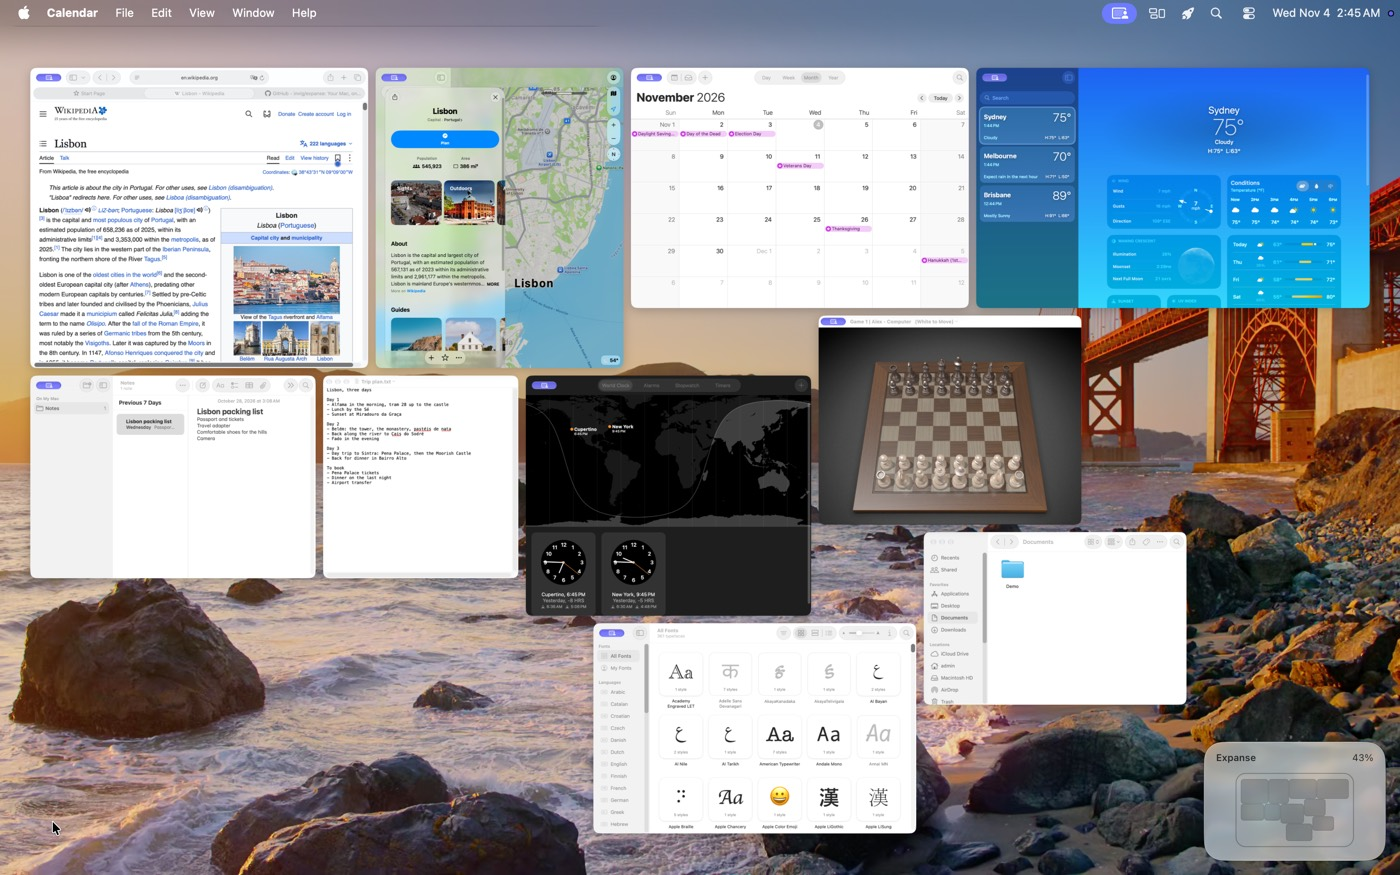
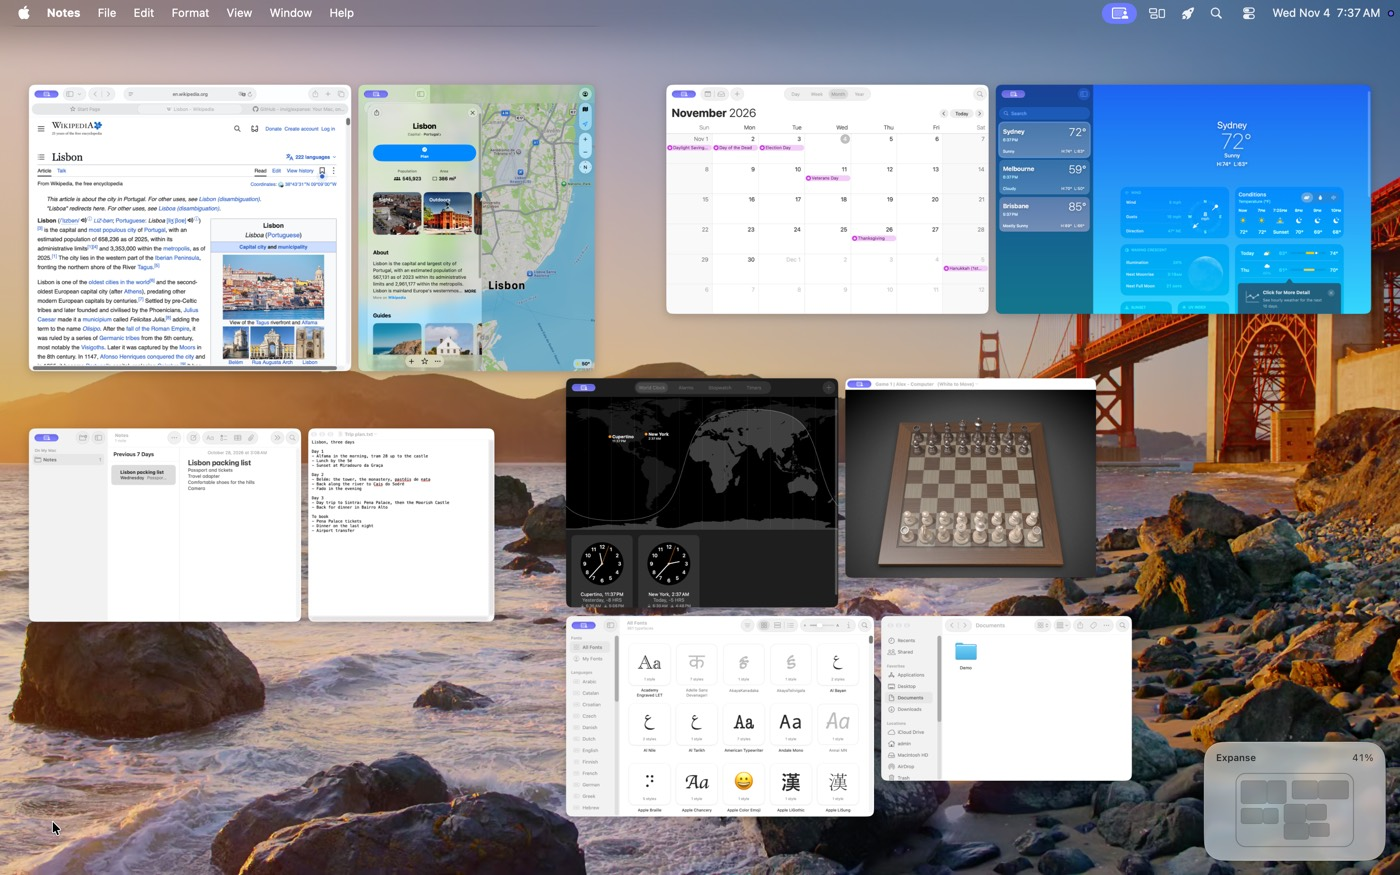
Tidy Up leaves zones alone: groups are windows less than 80pt apart
Windows within 240pt counted as one group, chaining through neighbours, so
Tidy Up pulled zones you'd kept apart on purpose back together. Now it's 80pt:
each zone is tidied where it is, and groups keep 80pt clear. EDIT-35.

The drag snap that centres a window on a row or column was using the same
number, so it has its own now and keeps its 240pt.

The README's Tidy Up pictures are retaken, since the old "after" showed the
scene jammed together.

diff --git a/Tests/ExpanseTests/EDITTests.swift b/Tests/ExpanseTests/EDITTests.swift
@@ -443,6 +443,9 @@ import Carbon.HIToolbox
         #expect(below.midX == 410)
         #expect(belowLines.first.map { $0.0 == CGPoint(x: 410, y: 500) && $0.1 == CGPoint(x: 410, y: 1200) } == true,
                 "a guide spanning the row and the window")
+        // 200pt below it still counts: dragging has its own reach, not Tidy Up's.
+        let (farBelow, _) = c2.snap(Self.r(258, 1000, 300, 300), excluding: [9])
+        #expect(farBelow.midX == 410)
     }
 
     @Test("EDIT-16 The same for a column to the left or right") func edit16b() {
@@ -470,8 +473,7 @@ import Carbon.HIToolbox
         #expect(b == groupB, "group B doesn't move")
     }
 
-    @Test("EDIT-17 Groups more than 240pt apart aren't pulled together") func edit17b() {
-        // Two groups 300pt apart: closer than they'd be after a whole-canvas tidy, further than 240.
+    @Test("EDIT-17 Groups apart aren't pulled together") func edit17b() {
         let frames0 = [Self.r(0, 0, 400, 300), Self.r(430, 0, 400, 300),
                        Self.r(1130, 40, 400, 300), Self.r(1580, 40, 400, 300)]
         var frames = frames0
@@ -479,6 +481,42 @@ import Carbon.HIToolbox
         #expect(frames[1].minX == 420)
         #expect(frames[2] == frames0[2], "B's first window stays put")
         #expect(frames[3].minX == 1550 && frames[3].minY == 40, "B is tidied where it is")
+    }
+
+    // MARK: EDIT-35 Windows 80pt or more apart stay separate zones through Tidy Up
+
+    @Test("EDIT-35 Two zones 100pt apart are each tidied where they are") func edit35() {
+        let frames0 = [Self.r(0, 0, 400, 300), Self.r(450, 30, 400, 300),
+                       Self.r(950, 0, 400, 300), Self.r(1400, 30, 400, 300)]
+        var frames = frames0
+        CanvasController.tidyUp(&frames)
+        #expect(frames[1] == Self.r(420, 0, 400, 300), "the first zone is tidied")
+        #expect(frames[2] == frames0[2], "the second zone stays where it is")
+        #expect(frames[3] == Self.r(1370, 0, 400, 300), "and is tidied there")
+    }
+
+    @Test("EDIT-35 The same for zones one above the other") func edit35b() {
+        let frames0 = [Self.r(0, 0, 400, 300), Self.r(0, 400, 400, 300)]
+        var frames = frames0
+        CanvasController.tidyUp(&frames)
+        #expect(frames == frames0)
+    }
+
+    @Test("EDIT-35 The range is 80pt: 79 apart is one group, 80 apart is two") func edit35c() {
+        #expect(CanvasController.clusterReach == 80)
+        var near = [Self.r(0, 0, 400, 300), Self.r(479, 0, 400, 300)]
+        CanvasController.tidyUp(&near)
+        #expect(near[1].minX == 420, "pulled in")
+        var apart = [Self.r(0, 0, 400, 300), Self.r(480, 0, 400, 300)]
+        CanvasController.tidyUp(&apart)
+        #expect(apart[1].minX == 480, "left alone")
+    }
+
+    @Test("EDIT-35 Being close on one axis alone doesn't make a group") func edit35d() {
+        let frames0 = [Self.r(0, 0, 400, 300), Self.r(430, 500, 400, 300)]
+        var frames = frames0
+        CanvasController.tidyUp(&frames)
+        #expect(frames == frames0)
     }
 
     // MARK: EDIT-18 The close button only closes when it's showing
@@ -626,7 +664,7 @@ import Carbon.HIToolbox
     @Test("EDIT-24 Tidy Up lines up near edges and closes gaps to 20pt") func edit24() {
         let a = Self.r(0, 0, 400, 300)
         let b = Self.r(450, 40, 400, 300)    // right of A: 50pt gap, top 40pt lower
-        let c = Self.r(30, 380, 400, 300)    // below A: left edge 30pt in, 80pt gap
+        let c = Self.r(30, 360, 400, 300)    // below A: left edge 30pt in, 60pt gap
         let p1 = Self.r(3000, 0, 400, 300), p2 = Self.r(3450, 100, 400, 300)   // tops 100pt apart
         var frames = [a, b, c, p1, p2]
         CanvasController.tidyUp(&frames)
@@ -655,9 +693,9 @@ import Carbon.HIToolbox
 
     // MARK: EDIT-25 A group moves as a whole only when another grows into its space
 
-    @Test("EDIT-25 A group another grows into moves as a whole, 240pt clear") func edit25() {
+    @Test("EDIT-25 A group another grows into moves as a whole, 80pt clear") func edit25() {
         let groupA = [Self.r(0, 0, 400, 300), Self.r(250, 0, 400, 300)]   // overlapping by 150
-        let groupB = [Self.r(910, 0, 400, 300), Self.r(1330, 0, 400, 300)] // 260 right of A
+        let groupB = [Self.r(750, 0, 400, 300), Self.r(1170, 0, 400, 300)] // 100 right of A
         var frames = groupA + groupB
         CanvasController.tidyUp(&frames)
         #expect(Self.gapX(frames[0], frames[1]) == 20, "A is tidied")
@@ -665,16 +703,16 @@ import Carbon.HIToolbox
         #expect(shift > 0)
         #expect(frames[2] == groupB[0].offsetBy(dx: shift, dy: 0) && frames[3] == groupB[1].offsetBy(dx: shift, dy: 0),
                 "B moves right as a whole")
-        #expect(frames[2].minX - frames[1].maxX == 240, "the groups stay 240pt apart")
+        #expect(frames[2].minX - frames[1].maxX == 80, "the groups stay 80pt apart")
     }
 
     @Test("EDIT-25 separateGroups leaves groups that are clear alone") func edit25b() {
-        var frames = [Self.r(0, 0, 400, 300), Self.r(700, 0, 400, 300), Self.r(820, 0, 400, 300)]
-        CanvasController.separateGroups(&frames, groups: [[0], [1, 2]], reach: 240)
-        #expect(frames[1].minX == 700, "300pt clear: stays")
-        var close = [Self.r(0, 0, 400, 300), Self.r(500, 50, 400, 300), Self.r(920, 50, 400, 300)]
-        CanvasController.separateGroups(&close, groups: [[0], [1, 2]], reach: 240)
-        #expect(close[1] == Self.r(640, 50, 400, 300) && close[2] == Self.r(1060, 50, 400, 300))
+        var frames = [Self.r(0, 0, 400, 300), Self.r(500, 0, 400, 300), Self.r(920, 0, 400, 300)]
+        CanvasController.separateGroups(&frames, groups: [[0], [1, 2]], reach: 80)
+        #expect(frames[1].minX == 500, "100pt clear: stays")
+        var close = [Self.r(0, 0, 400, 300), Self.r(450, 50, 400, 300), Self.r(870, 50, 400, 300)]
+        CanvasController.separateGroups(&close, groups: [[0], [1, 2]], reach: 80)
+        #expect(close[1] == Self.r(480, 50, 400, 300) && close[2] == Self.r(900, 50, 400, 300))
     }
 
     // MARK: EDIT-26 Tidy Up right after a drag keeps what you dragged

diff --git a/Tests/Integration/Sources/ExpanseIntegration/Cases/EDIT.swift b/Tests/Integration/Sources/ExpanseIntegration/Cases/EDIT.swift
@@ -396,6 +396,32 @@ import AppKit
             try t.expectNear(now[0].origin, dropped, within: 21, "A, the group's left end, where it was dropped")
             try editExpectRow(t, now, ["A", "B", "C"])
         },
+
+        Case("EDIT-35", "Windows 80pt or more apart stay separate zones through Tidy Up") { t in
+            let spot = editClearSpot(try await t.state())
+            // Two untidy zones 100pt apart: inside each, a gap of 50 and a top 30pt lower.
+            let offsets = [CGPoint(x: 0, y: 0), CGPoint(x: 450, y: 30), CGPoint(x: 950, y: 0), CGPoint(x: 1400, y: 30)]
+            let names = ["A", "B", "C", "D"]
+            var ws: [TestWindow] = []
+            for (i, off) in offsets.enumerated() {
+                let w = try await t.window("EDIT-35 \(names[i])",
+                                           CGRect(x: 120 + 30 * CGFloat(i), y: 140 + 30 * CGFloat(i), width: 400, height: 260))
+                t.place(w, at: CGPoint(x: spot.x + off.x, y: spot.y + off.y))
+                ws.append(w)
+            }
+            _ = try await t.settle()
+            let mark = t.log.mark()
+            t.link("tidy")
+            try await t.until("the canvas to open", timeout: 8) { try await t.state().active }
+            try await t.expectLog("layout fitted:", since: mark, timeout: 8)
+            let s = try await t.settle()
+            let fr = try ws.map { try s.editFrame($0) }
+            try editExpectRow(t, Array(fr[0...1]), ["A", "B"])
+            try editExpectRow(t, Array(fr[2...3]), ["C", "D"])
+            try t.expectNear(fr[0].origin, spot, within: 1, "A, the first zone's left end, shouldn't move")
+            try t.expectNear(fr[2].origin, CGPoint(x: spot.x + 950, y: spot.y), within: 1,
+                             "C shouldn't move: its zone is more than 80pt from the first")
+        },
     ]
 }
 

diff --git a/Sources/Expanse/CanvasController.swift b/Sources/Expanse/CanvasController.swift
@@ -2608,10 +2608,13 @@ final class CanvasController: NSObject {
     }
     static let gapKey = "windowGap"
     /// Windows closer than this to a neighbour count as one group (cluster). Tidy Up tidies each
-    /// group where it is, and keeps groups at least this far apart.
-    static let clusterReach: CGFloat = 240
+    /// group where it is, and keeps groups at least this far apart. Small, so zones you keep apart
+    /// on purpose stay zones.
+    static let clusterReach: CGFloat = 80
     /// Edges closer than this to lining up get lined up by Tidy Up.
     static let alignReach: CGFloat = 60
+    /// How far away a row or column can be and still be one a dragged window centres on.
+    static let rowSnapReach: CGFloat = 240
 
     /// Fit the layout to this screen without rebuilding it:
     /// 1. every window takes the size you chose, capped at the screen (shrinks on a laptop,
@@ -4713,7 +4716,7 @@ final class CanvasController: NSObject {
         consider(f.midY, mid.y, line: mid.y, span: CGRect(x: f.minX, y: mid.y, width: f.width, height: 0), into: &bestY)
 
         // Centre on a whole neighbouring row (above / below) or column (left / right).
-        let reach = Self.clusterReach
+        let reach = Self.rowSnapReach
         let wide = f.insetBy(dx: -reach, dy: 0), tall = f.insetBy(dx: 0, dy: -reach)
         let below = others.filter { $0.minY >= f.maxY - 1 && $0.minY - f.maxY <= reach && $0.intersects(wide.insetBy(dx: 0, dy: -reach)) }
         let above = others.filter { $0.maxY <= f.minY + 1 && f.minY - $0.maxY <= reach && $0.intersects(wide.insetBy(dx: 0, dy: -reach)) }

diff --git a/docs/regression/README.md b/docs/regression/README.md
@@ -1,6 +1,6 @@
 # Regression tests
 
-Every feature Expanse has, and every bug it has fixed, as a test case: 476 cases, from all 174
+Every feature Expanse has, and every bug it has fixed, as a test case: 477 cases, from all 174
 commits from 0.1.0 to 0.1.34 (26–30 Oct 2026) and the changes since. A bug fix's case says what
 went wrong **before** the fix and what must happen **now**, so a later change can't quietly bring
 it back. Every case has a test: unit tests for the logic, and end-to-end cases that drive the real
@@ -9,7 +9,7 @@ app (see Running them).
 | Area | What it covers | Cases | Bug fixes |
 |---|---|---|---|
 | [NAV](navigation.md) | Canvas, zoom and navigation | 65 | 15 |
-| [EDIT](arranging.md) | Arranging windows on the canvas, and screens you build | 34 | 3 |
+| [EDIT](arranging.md) | Arranging windows on the canvas, and screens you build | 35 | 4 |
 | [PLACE](new-windows.md) | New windows and where they go | 18 | 12 |
 | [TRACK](tracking.md) | Finding and following windows | 44 | 30 |
 | [SIZE](sizes.md) | Window sizes | 20 | 9 |
@@ -23,7 +23,7 @@ app (see Running them).
 | [UPDATE](updates-and-install.md) | Updates, release builds and install | 19 | 2 |
 | [URL](url-scripting.md) | expanse:// scripting | 28 | 1 |
 | [SEC](security.md) | Security hardening | 30 | 25 |
-| | **Total** | **476** | **202** |
+| | **Total** | **477** | **203** |
 
 [Coverage](coverage.md) lists every commit with the cases that test it, or why none does (docs
 only, a reverted experiment, an empty merge, a release commit).
@@ -34,21 +34,21 @@ Every case has a test (`scripts/test-coverage.sh` checks it): a unit test for ea
 **unit**, and an end-to-end case, a unit test of its logic, or both, for each case marked
 **manual**. A test's name starts with its case's ID.
 
-**Unit tests** (Tests/ExpanseTests, 552 of them, about a minute and a half). Run them before every commit:
+**Unit tests** (Tests/ExpanseTests, 556 of them, about a minute and a half). Run them before every commit:
 ```bash
 scripts/test.sh
 ```
 `scripts/test.sh --filter NAV` runs one area. They never touch real windows, your layout, logs
 or the Keychain: windows are stand-ins, the display is pretend, and files go to temp folders.
 
-**End-to-end cases** (Tests/Integration, 240). An app, Expanse Tests, drives a running
+**End-to-end cases** (Tests/Integration, 241). An app, Expanse Tests, drives a running
 development build of Expanse with links, its own windows, other apps and real key and pointer
 events, and reads back what Expanse did from its log. They move real windows, so run them in the
 VM (see [Using the VM](#using-the-vm)), not on your desktop:
 ```bash
 scripts/vm-integration.sh
 ```
-That builds both apps, copies them into the VM, runs the 155 cases that need nobody, and copies
+That builds both apps, copies them into the VM, runs the 156 cases that need nobody, and copies
 the report back to build/integration-vm/, with Expanse's log for each failed case beside it
 (`NAV-17.log`: the VM keeps its detailed log only for minutes). `--all` adds the 54 guided cases
 (it asks you to do something, such as lock the Mac or unplug a display, in a panel at the top of

diff --git a/docs/regression/arranging.md b/docs/regression/arranging.md
@@ -271,7 +271,7 @@
 - **Type:** Feature
 - **Area:** EDIT
 - **Commits:** 49c6c06 (0.1.20)
-- **Setup:** One group: window B to the right of A, 50pt gap, B's top 40pt lower than A's. Window C below A, left edge 30pt to the right of A's, 80pt gap. A separate pair where one top is 100pt below the other.
+- **Setup:** One group: window B to the right of A, 50pt gap, B's top 40pt lower than A's. Window C below A, left edge 30pt to the right of A's, 60pt gap. A separate pair where one top is 100pt below the other.
 - **Steps:**
   1. Zoom out and press T.
 - **Expected:** B's top lines up with A's and the gap closes to 20pt; C's left edge lines up with A's and the gap closes to 20pt. In the separate pair (100pt apart, more than 60pt), the tops are not lined up. A line-up is skipped if it would bring a window closer than 20pt to another.
@@ -281,10 +281,10 @@
 - **Type:** Feature
 - **Area:** EDIT
 - **Commits:** 49c6c06 (0.1.20)
-- **Setup:** Group A: two windows side by side, the right one overlapping the left by about 150pt. Group B: two windows about 260pt to the right of A.
+- **Setup:** Group A: two windows side by side, the right one overlapping the left by about 150pt. Group B: two windows about 100pt to the right of A.
 - **Steps:**
   1. Zoom out and press T.
-- **Expected:** A is tidied; since it grew to within 240pt of B, B moves right (or down) as a whole, its windows keeping their arrangement, and the groups stay at least 240pt apart.
+- **Expected:** A is tidied; since it grew to within 80pt of B, B moves right (or down) as a whole, its windows keeping their arrangement, and the groups stay at least 80pt apart.
 - **Automate:** unit: CanvasController.separateGroups(_:groups:reach:).
 
 ## EDIT-26 Tidy Up right after a drag keeps what you dragged
@@ -398,3 +398,15 @@
 - **Expected:** The first ⌘Z undoes the resize, real window too; the second puts the screen's windows back where and how big they were (the dropped one where you dragged it from), and windows moved out of the way too; the third beeps. Plain moves aren't undone.
 - **Check in log:** `undo: resize`, `undo: screen of 2`.
 - **Automate:** unit: undo steps.
+
+## EDIT-35 Windows 80pt or more apart stay separate zones through Tidy Up
+- **Type:** Bug fix
+- **Area:** EDIT
+- **Commits:** unreleased (4 Nov)
+- **Before:** Windows within 240pt counted as one group, chaining through neighbours, so Tidy Up pulled zones you'd kept apart on purpose back together.
+- **Setup:** Two zones, 100pt apart. Inside each: two windows with a 50pt gap, the second's top 30pt lower.
+- **Steps:**
+  1. Zoom out and press T.
+- **Expected:** Each zone is tidied where it is: a 20pt gap and its tops lined up. The first window of each zone doesn't move. Windows 79pt apart count as one group; 80pt apart, as two. Being close along one axis only doesn't make a group. Dragging a window to centre it on a row or column keeps its own 240pt reach (EDIT-16).
+- **Check in log:** `tidy moved <App>[<id>] by <dx>, <dy>` for each zone's second window only.
+- **Automate:** unit: CanvasController.tidyUp(_:). End-to-end: EDIT-35.

diff --git a/docs/features.md b/docs/features.md
@@ -4,7 +4,8 @@ What we might build next. New requests go in as they come up, and finished work 
 
 ## Not released yet
 
-Nothing yet.
+- Tidy Up leaves zones alone (asked 4 Nov): windows now count as one group only when they're less
+  than 80pt apart, down from 240pt, so zones you keep apart stay apart. EDIT-35.
 
 ## Bugs
 
@@ -40,7 +41,7 @@ in Copy Logs for a Bug Report).
    - an open-hand cursor over the minimap, and at 100% a click goes to that spot.
 4. **Multiple monitor support** (asked again 28 Oct). Today Expanse uses the main display only.
 5. **Regression tests** (asked 29 Oct). Built: every case in [regression/](regression/README.md)
-   has a test. 552 unit tests (`scripts/test.sh`, about a minute and a half, all passing), and 240
+   has a test. 556 unit tests (`scripts/test.sh`, about a minute and a half, all passing), and 241
    end-to-end cases that drive the real app in the expanse-demo VM (`scripts/vm-integration.sh`;
    `--all` adds the 85 that need you). A new fix adds its case and its test.
    - End-to-end, 2 Nov: a complete run of 0.1.36 in the VM passed all 145 automatic cases, in one

diff --git a/README.md b/README.md
@@ -173,8 +173,9 @@ the settings yourself:
 Menu bar icon › **Earlier layouts**: click one to put your windows back the way they were then.
 Expanse keeps your last three, taken 15 minutes apart as you work (or when you press **Take
 snapshot**), and a restore can be undone too: the layout you had becomes the newest earlier one.
-**Tidy Up** neatens things where they are. As a last resort, **Restore all windows** (beside Take
-snapshot) brings every window that's out of view back on screen, cascaded from the top middle.
+**Tidy Up** neatens things where they are: windows 80pt or more apart count as separate groups, so
+zones you keep apart stay apart. As a last resort, **Restore all windows** (beside Take snapshot)
+brings every window that's out of view back on screen, cascaded from the top middle.
 
 </details>
 
